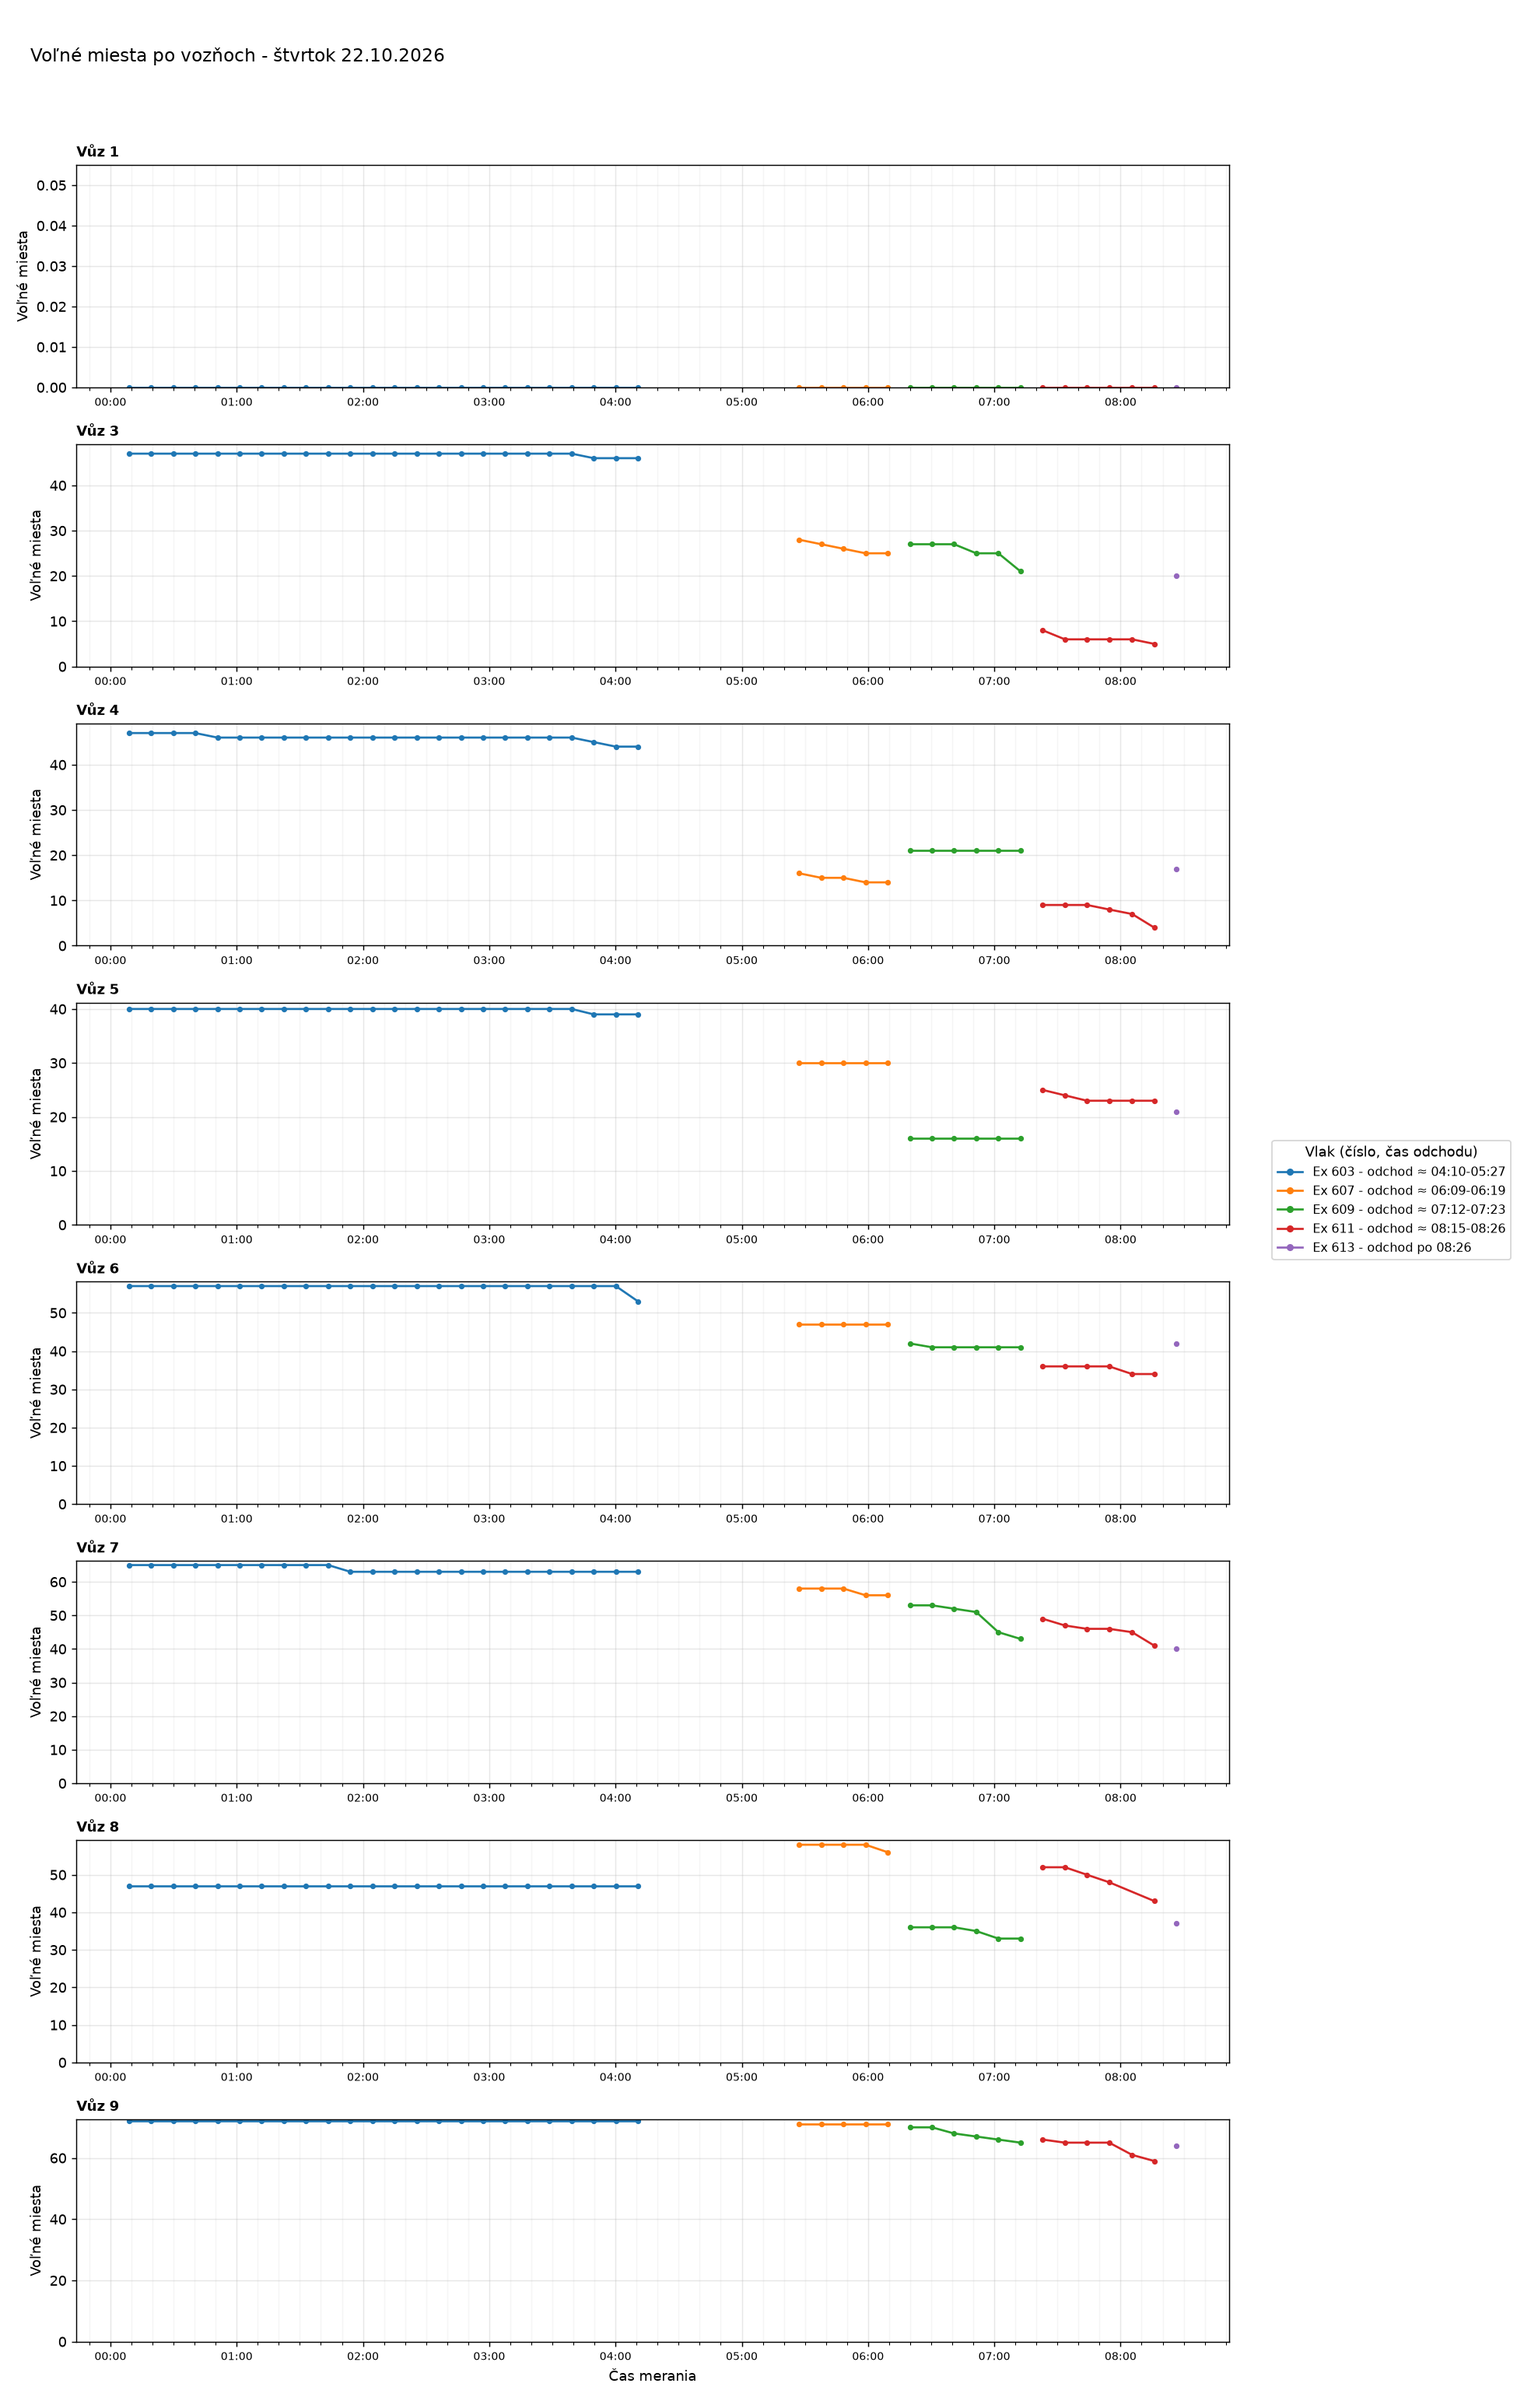
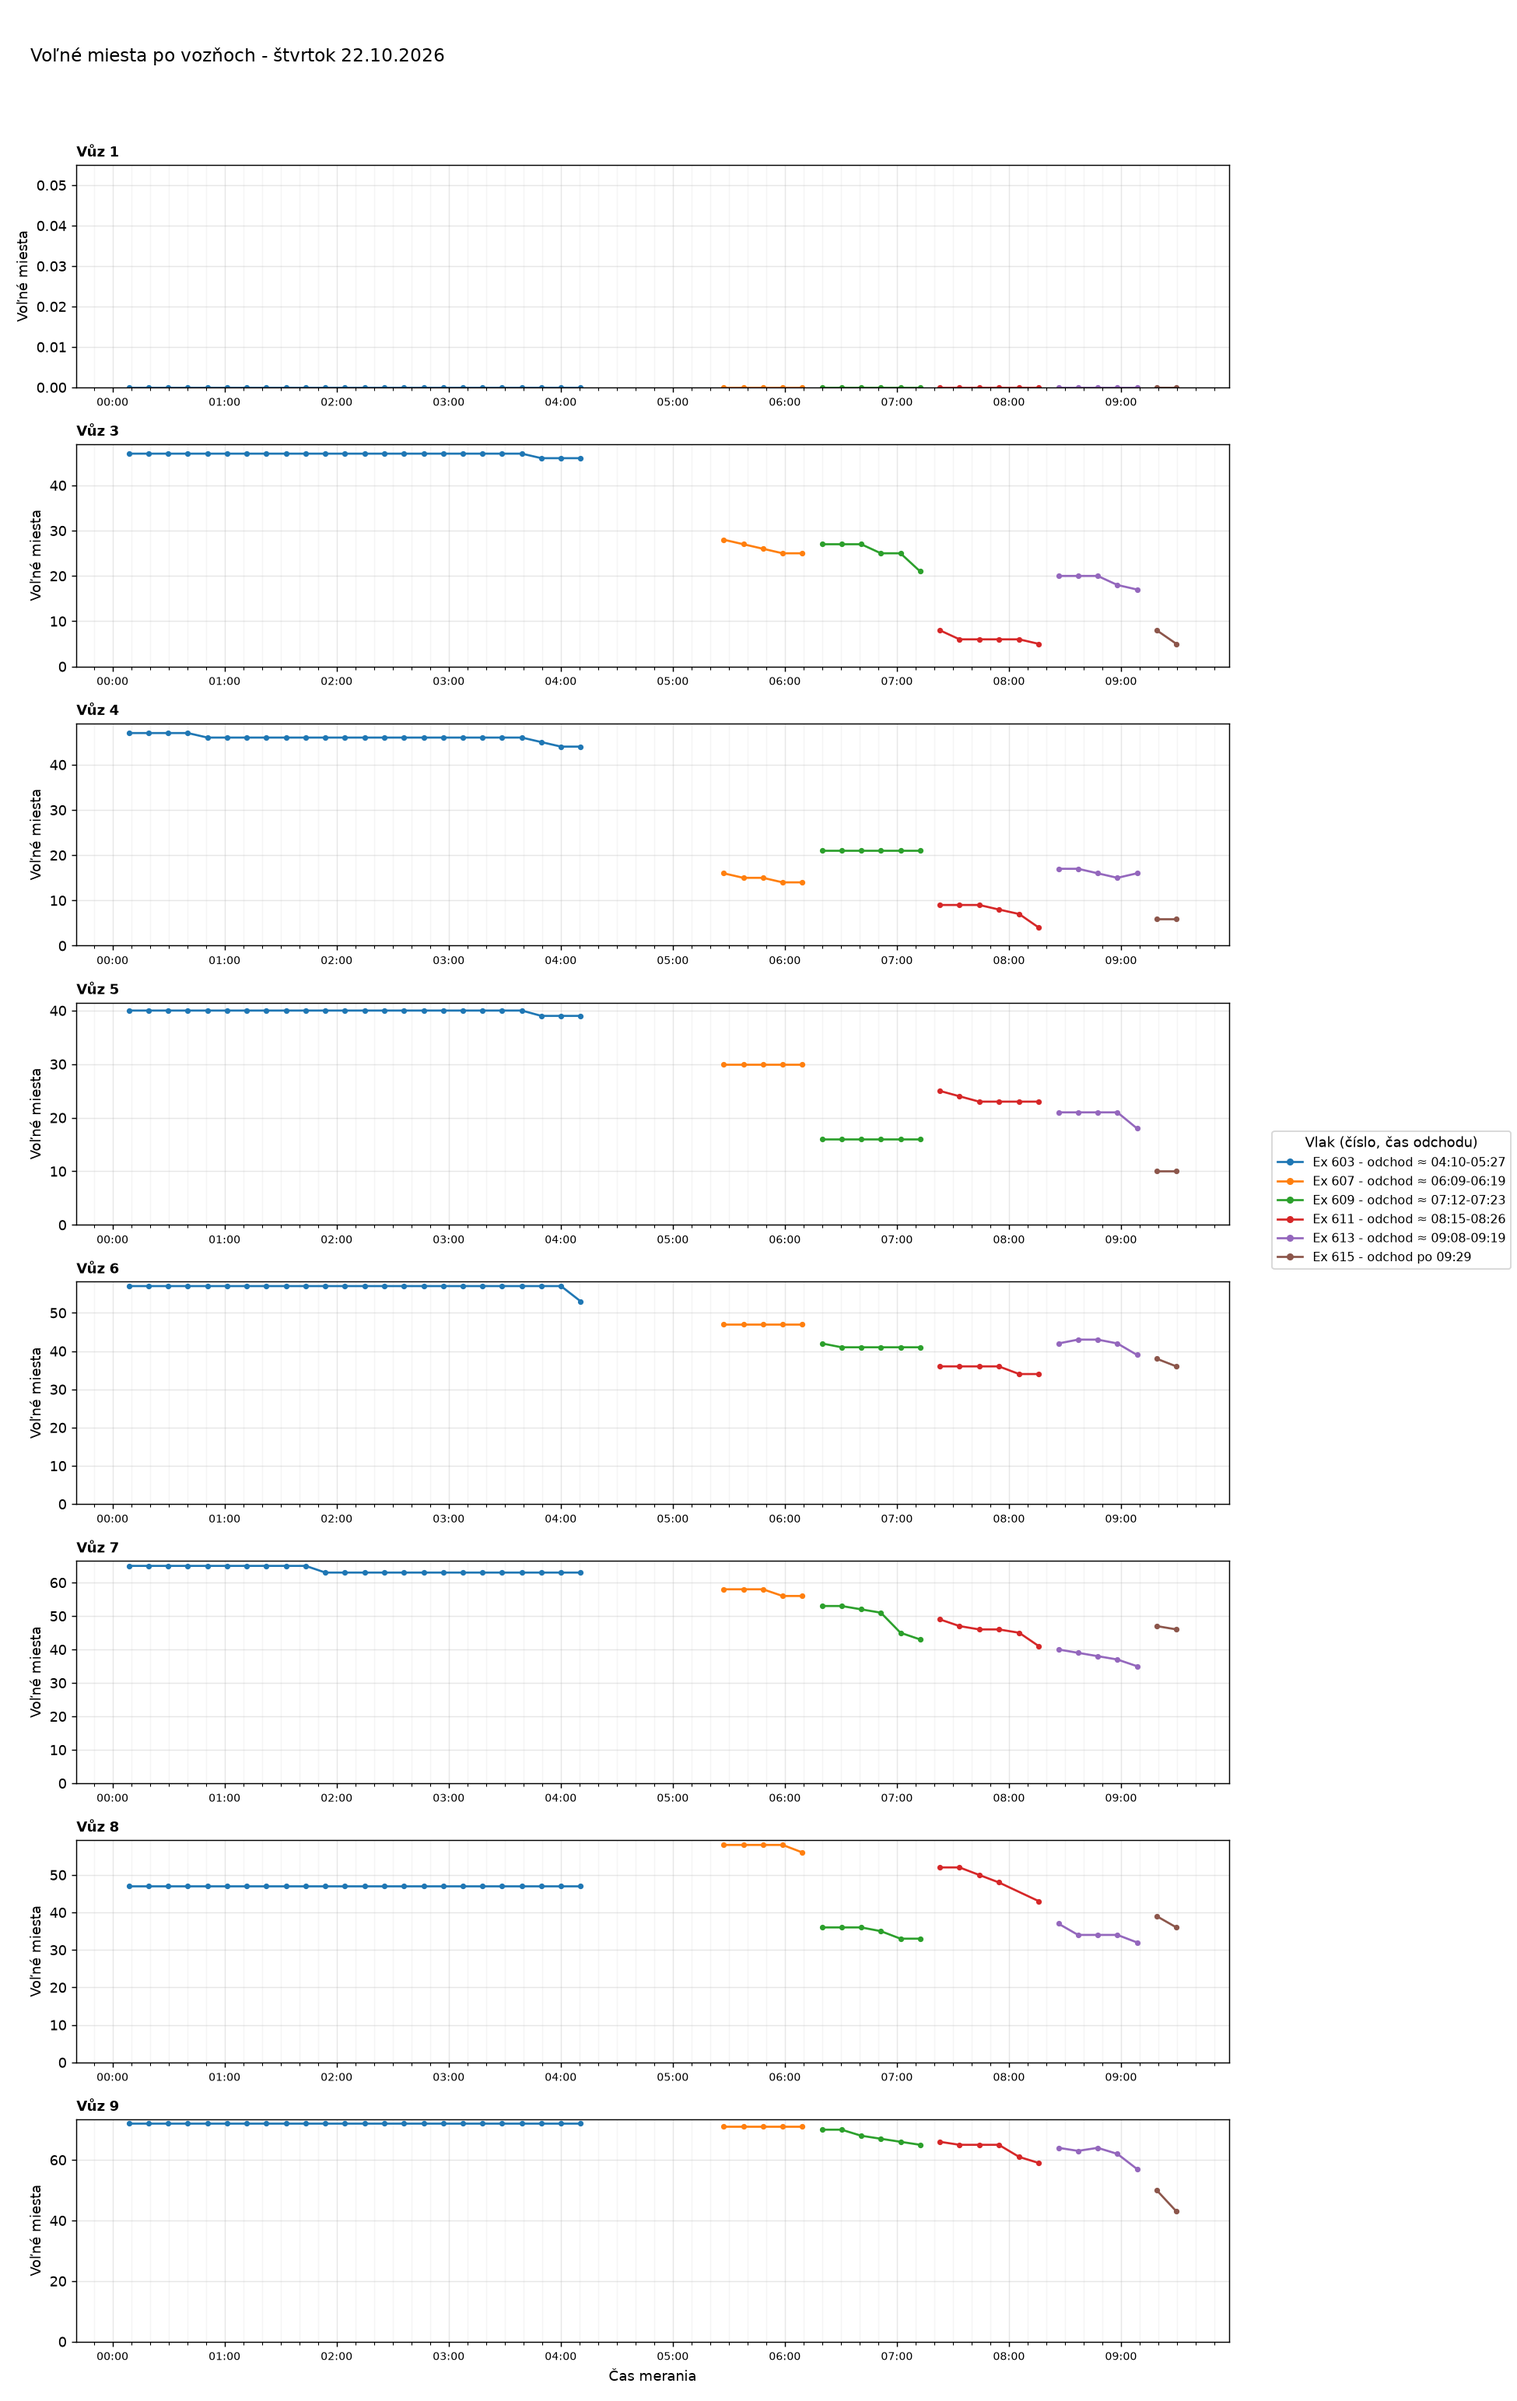
Aktualizácia grafov 2026-10-22 09:36

Changed region(s): [[0.8308, 0.4666, 1.0, 0.5288], [0.6462, 0.3733, 0.6769, 0.4044]]

diff --git a/index.html b/index.html
@@ -35,7 +35,7 @@ h2.oddiel{margin:36px 0 0;font-size:1.4rem}
 <body>
 <main>
 <h1>Voľné miesta vo vlakoch</h1>
-<p class="muted">Posledné meranie: 22.10.2026 08:26 ·
+<p class="muted">Posledné meranie: 22.10.2026 09:29 ·
 <a href="data/obsadenost_data.csv">stiahnuť dáta (CSV)</a></p>
 <nav class="nav"><a href="#suhrn">Súhrn</a><a href="#statistiky">Štatistiky</a><a href="#historia">História grafov</a></nav>
 
@@ -44,7 +44,7 @@ h2.oddiel{margin:36px 0 0;font-size:1.4rem}
 <div class="tablewrap"><table>
 <thead><tr><th>Deň</th><th>Meraní</th><th>Vlakov</th><th>Čas meraní</th></tr></thead>
 <tbody>
-<tr><td><a href="#d2026-10-22">štvrtok 22.10.2026</a></td><td>42</td><td>5</td><td>00:08-08:26</td></tr>
+<tr><td><a href="#d2026-10-22">štvrtok 22.10.2026</a></td><td>48</td><td>6</td><td>00:08-09:29</td></tr>
 <tr><td><a href="#d2026-10-21">streda 21.10.2026</a></td><td>96</td><td>15</td><td>00:10-23:58</td></tr>
 <tr><td><a href="#d2026-10-20">utorok 20.10.2026</a></td><td>34</td><td>7</td><td>13:55-23:50</td></tr>
 </tbody></table></div>
